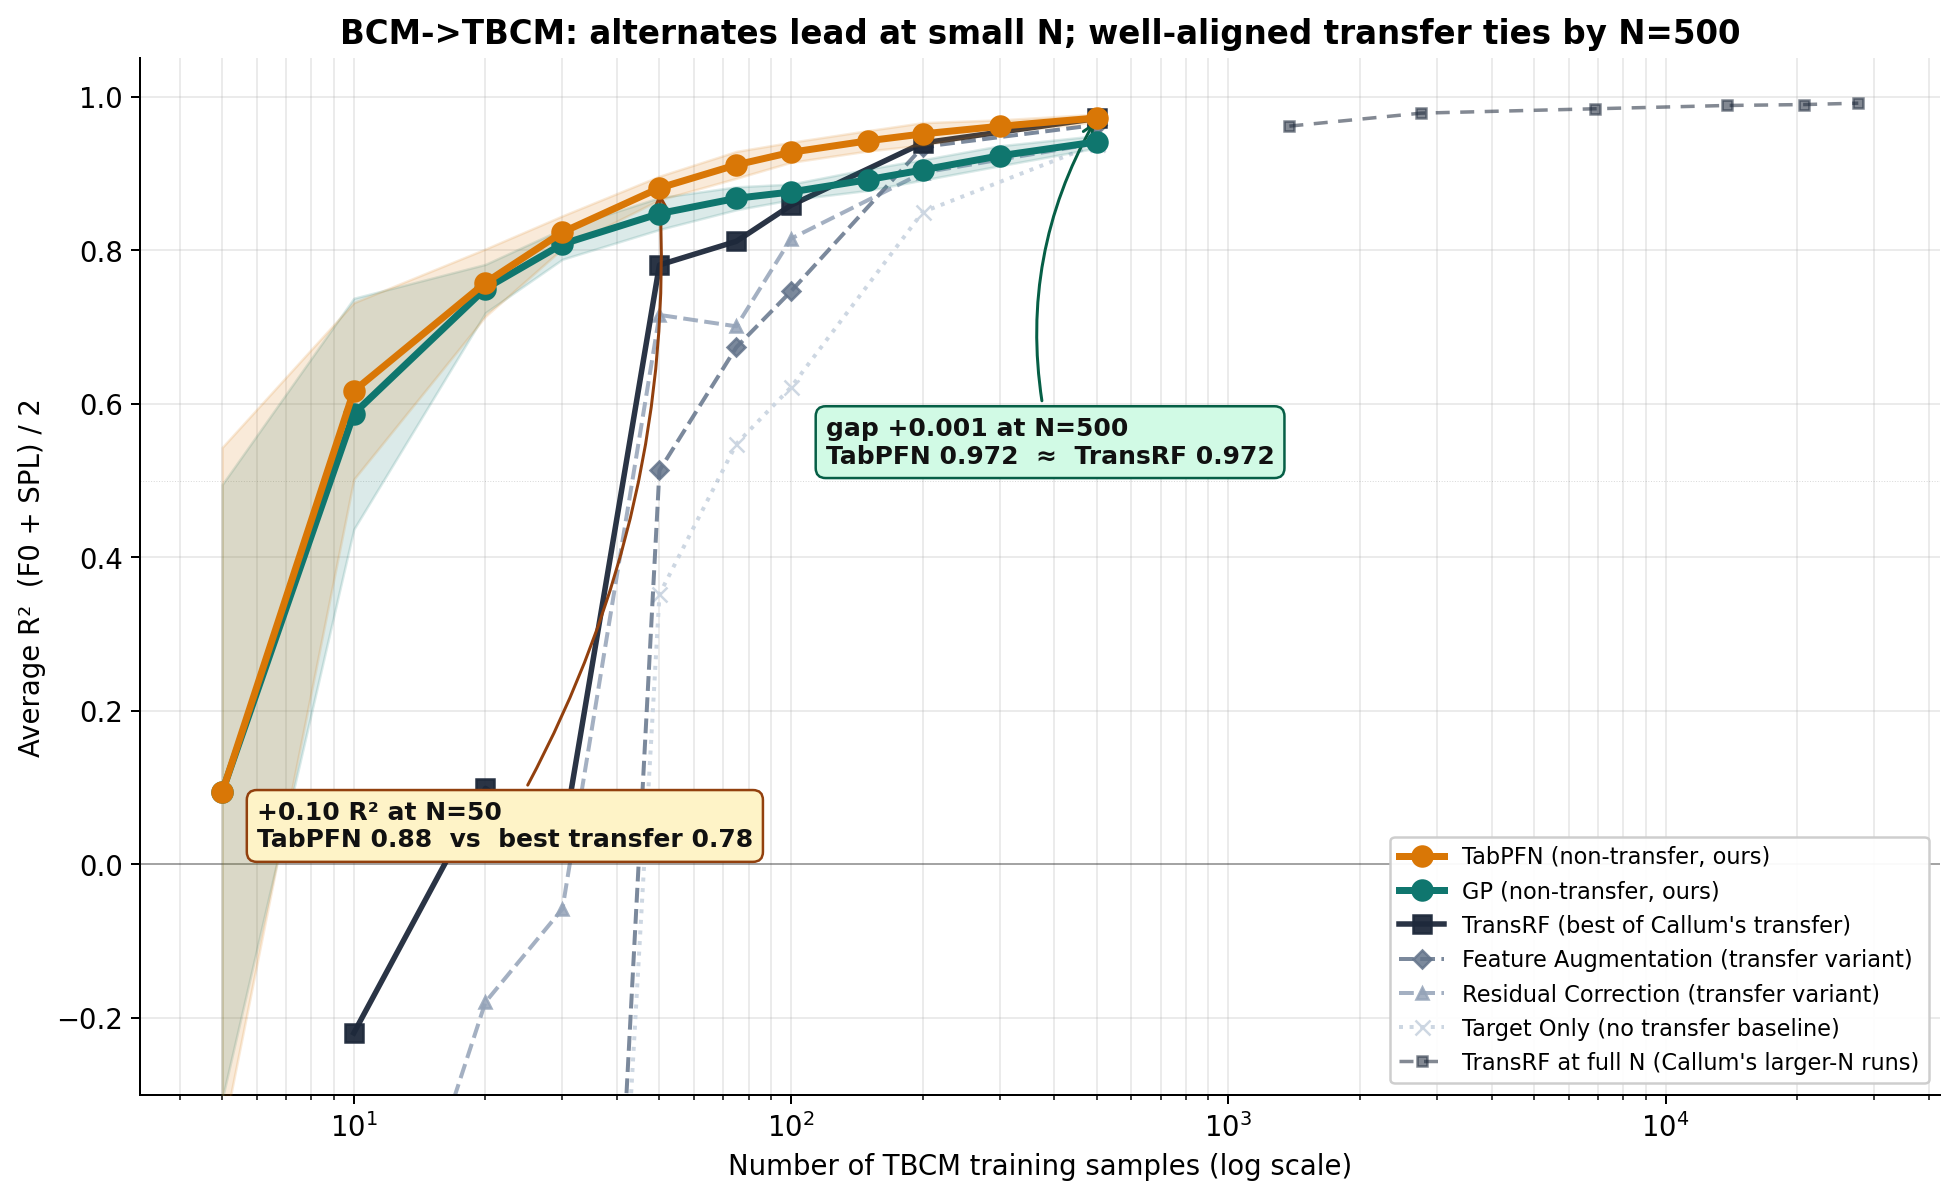
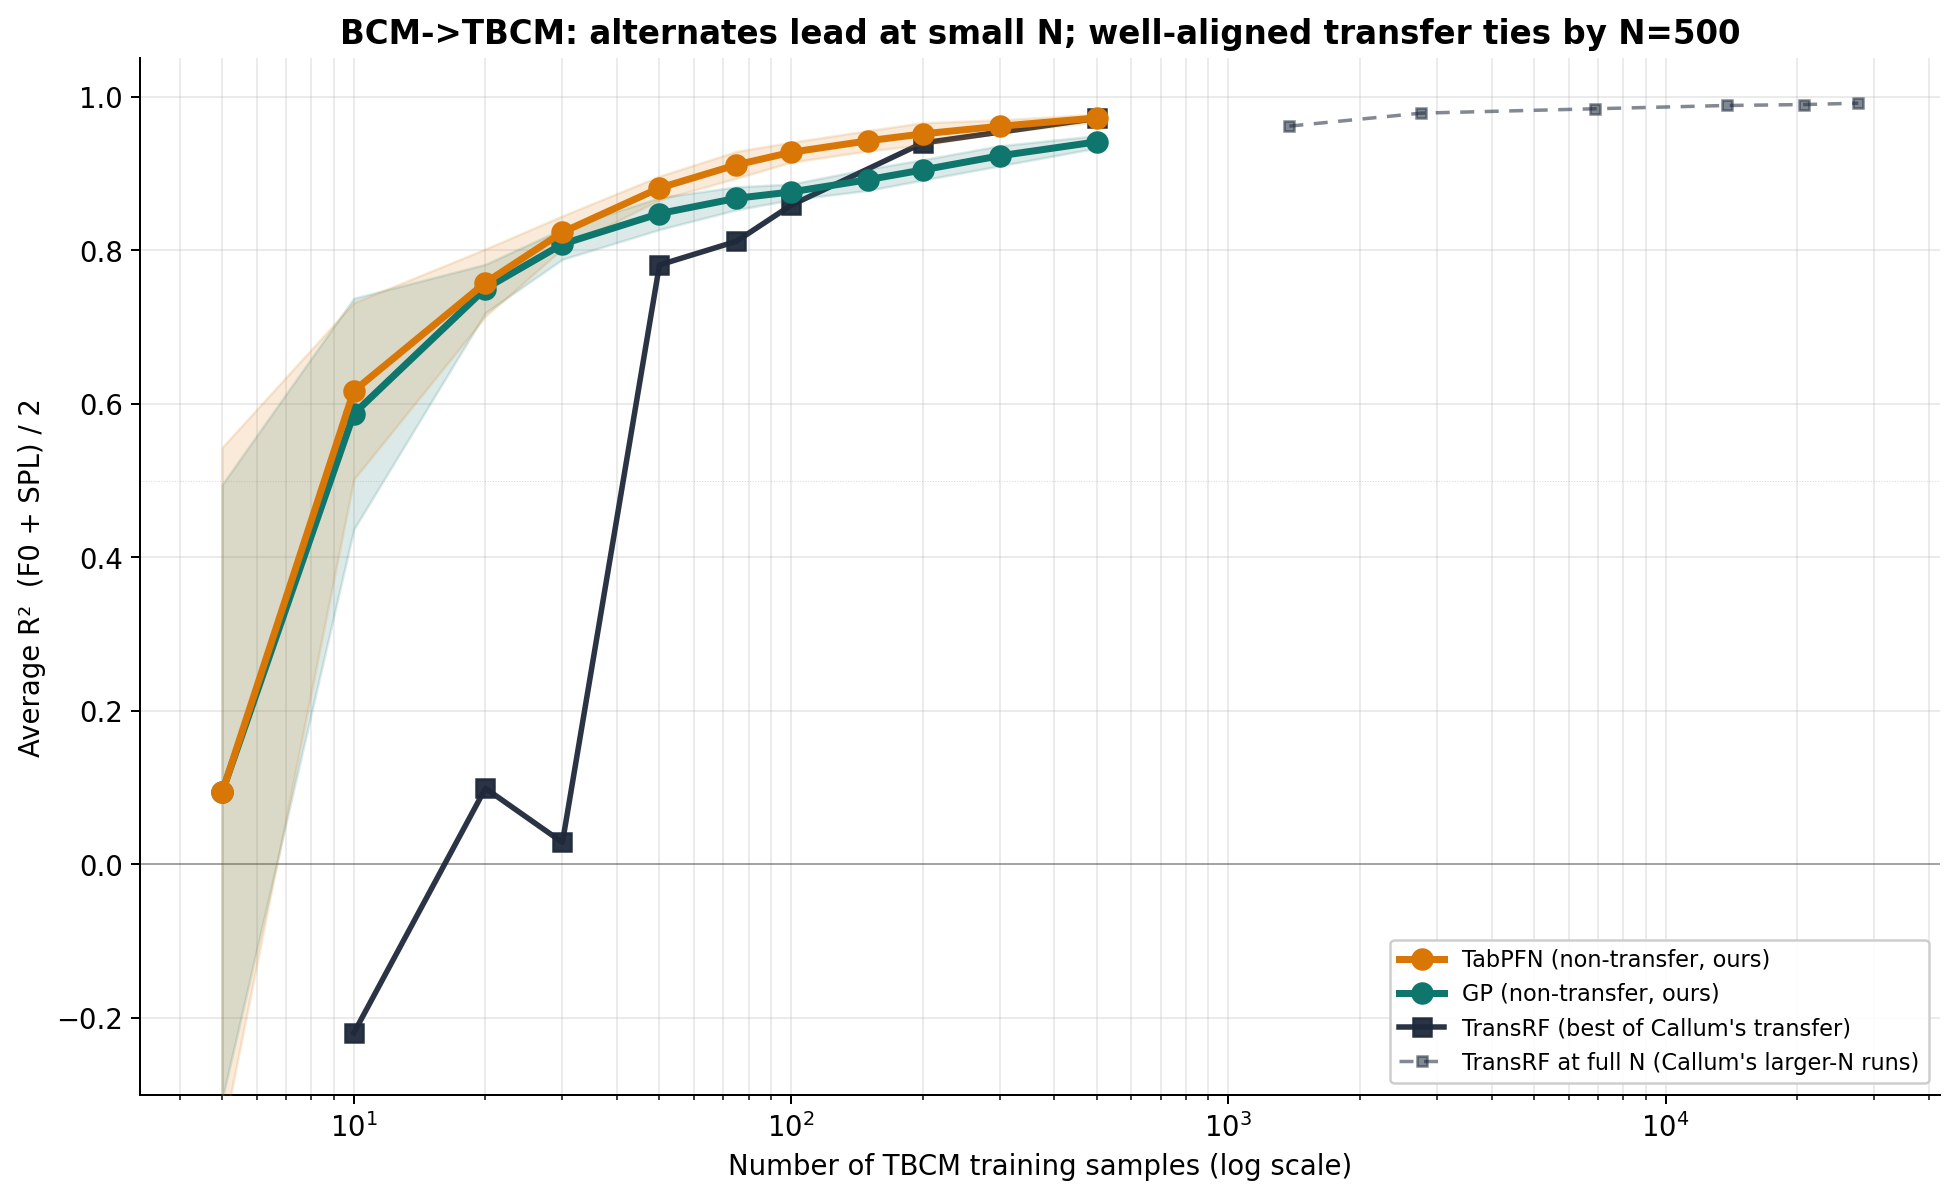
figs(showcase): simplify headline charts — best transfer only, no annotations
Both TBCM_Showcase.fig_headline and Female_Showcase.fig_headline:

  - Remove the in-plot annotation text boxes (R^2 gap at N=50, convergence
    at N=500, catch-up at N=75, divergence at N=500). The same numbers
    live in the head-to-head table and bootstrap figures; cluttering the
    line chart hurt readability.

  - Show only the best of the upstream transfer methods:
      TBCM:    TransRF only (drop Target Only / Residual / Feature Aug)
      Female:  RF transfer only (drop NN / PR)
    The dropped variants remain visible in sim_budget (bar) and bootstrap
    (boxplot) figures — those are the right place for the multi-method
    comparison.

  - TBCM keeps the dashed "TransRF at full N" reference line; it's the
    SAME method continued at larger N (1379..27584) and provides the
    convergence story without needing text.

Net effect: headline figs now have 3 lines (TBCM has 4 incl. dashed
reference), each labeled distinctly. Reads as a single clean comparison
instead of competing visual elements.

diff --git a/TBCM/TBCM_Showcase.py b/TBCM/TBCM_Showcase.py
@@ -159,18 +159,17 @@ def fig_headline():
 
     fig, ax = plt.subplots(figsize=(11, 6.8))
 
-    # Plot each transfer variant as its OWN labeled line.
-    for label in ['Target Only', 'Residual', 'Feature Aug', 'TransRF']:
-        if label not in small_mean or not small_mean[label]:
-            continue
-        ns = sorted(small_mean[label])
-        ys = [small_mean[label][n] for n in ns]
-        s = METHOD_STYLE[label]
+    # Best of Callum's transfer (TransRF only). Other variants are visible
+    # in the bootstrap and sim-budget figures.
+    if small_mean.get('TransRF'):
+        ns = sorted(small_mean['TransRF'])
+        ys = [small_mean['TransRF'][n] for n in ns]
+        s = METHOD_STYLE['TransRF']
         ax.plot(ns, ys, color=s['color'], marker=s['marker'], ls=s['ls'],
                 lw=s['lw'], ms=s['ms'], alpha=s['alpha'], label=s['label'],
-                zorder=3 if label == 'TransRF' else 2)
+                zorder=3)
 
-    # TransRF at full N (dashed continuation)
+    # TransRF at full N (dashed continuation, same transfer method, larger N)
     if full.get('TransRF'):
         full_tr = sorted(full['TransRF'])
         s = METHOD_STYLE['TransRF_fullN']
@@ -190,34 +189,6 @@ def fig_headline():
         ax.fill_between(ns, means - stds, means + stds, color=s['color'], alpha=0.15, zorder=3)
         ax.plot(ns, means, color=s['color'], marker=s['marker'], ls=s['ls'],
                 lw=s['lw'], ms=s['ms'], label=s['label'], zorder=5)
-
-    # Small-N gap callout at N=50
-    if 50 in alt['TabPFN']:
-        tab_50 = alt['TabPFN'][50].mean()
-        best_transfer_50 = max(small_mean[m].get(50, -np.inf) for m in small_mean)
-        gap = tab_50 - best_transfer_50
-        ax.annotate(
-            f'+{gap:.2f} R² at N=50\nTabPFN {tab_50:.2f}  vs  best transfer {best_transfer_50:.2f}',
-            xy=(50, tab_50), xytext=(6, 0.05),
-            fontsize=10, fontweight='bold', color='#111',
-            ha='left', va='center',
-            bbox=dict(boxstyle='round,pad=0.4', fc='#fef3c7', ec='#92400e', lw=1),
-            arrowprops=dict(arrowstyle='->', color='#92400e', lw=1.2,
-                            connectionstyle='arc3,rad=0.15'))
-
-    # Convergence callout at N=500
-    if 500 in alt['TabPFN']:
-        tab_500 = alt['TabPFN'][500].mean()
-        best_transfer_500 = max(small_mean[m].get(500, -np.inf) for m in small_mean)
-        gap = tab_500 - best_transfer_500
-        ax.annotate(
-            f'gap +{gap:.3f} at N=500\nTabPFN {tab_500:.3f}  ≈  TransRF {best_transfer_500:.3f}',
-            xy=(500, tab_500), xytext=(120, 0.55),
-            fontsize=10, fontweight='bold', color='#111',
-            ha='left', va='center',
-            bbox=dict(boxstyle='round,pad=0.4', fc='#d1fae5', ec='#065f46', lw=1),
-            arrowprops=dict(arrowstyle='->', color='#065f46', lw=1.2,
-                            connectionstyle='arc3,rad=-0.2'))
 
     ax.set_xscale('log')
     ax.set_xlabel('Number of TBCM training samples (log scale)')

diff --git a/VocalFoldRegression/BCM Model/Alternates/Female_Showcase.py b/VocalFoldRegression/BCM Model/Alternates/Female_Showcase.py
@@ -120,16 +120,15 @@ def fig_headline():
 
     fig, ax = plt.subplots(figsize=(11, 6.8))
 
-    # Each transfer regressor as its OWN labeled line
-    for reg in ['NN', 'PR', 'RF']:
-        if reg not in xfer:
-            continue
-        ns = sorted(xfer[reg])
-        ys = [xfer[reg][n] for n in ns]
-        s = METHOD_STYLE[reg]
+    # RF Male->Female transfer only (best of Brian's transfer regressors).
+    # NN/PR comparison is visible in the sim-budget figure.
+    if 'RF' in xfer:
+        ns = sorted(xfer['RF'])
+        ys = [xfer['RF'][n] for n in ns]
+        s = METHOD_STYLE['RF']
         ax.plot(ns, ys, color=s['color'], marker=s['marker'], ls=s['ls'],
                 lw=s['lw'], ms=s['ms'], alpha=s['alpha'], label=s['label'],
-                zorder=3 if reg == 'RF' else 2)
+                zorder=3)
 
     # GP + TabPFN with std bands
     for method in ('GP', 'TabPFN'):
@@ -142,38 +141,6 @@ def fig_headline():
         ax.fill_between(ns, means - stds, means + stds, color=s['color'], alpha=0.15, zorder=3)
         ax.plot(ns, means, color=s['color'], marker=s['marker'], ls=s['ls'],
                 lw=s['lw'], ms=s['ms'], label=s['label'], zorder=5)
-
-    rf = xfer.get('RF', {})
-
-    # Catch-up callout at N=75
-    if 75 in alt['TabPFN']:
-        tab_75 = alt['TabPFN'][75].mean()
-        if 50 in rf and 100 in rf:
-            rf_75 = 0.5 * (rf[50] + rf[100])
-        else:
-            rf_75 = rf.get(100, np.nan)
-        ax.annotate(
-            f'catch-up at N≈75\nTabPFN {tab_75:.2f}  ≈  RF transfer {rf_75:.2f}',
-            xy=(75, tab_75), xytext=(6, 0.92),
-            fontsize=10, fontweight='bold', color='#111',
-            ha='left', va='center',
-            bbox=dict(boxstyle='round,pad=0.4', fc='#fef3c7', ec='#92400e', lw=1),
-            arrowprops=dict(arrowstyle='->', color='#92400e', lw=1.2,
-                            connectionstyle='arc3,rad=0.15'))
-
-    # Divergence callout at N=500
-    if 500 in alt['TabPFN'] and 500 in rf:
-        tab_500 = alt['TabPFN'][500].mean()
-        rf_500 = rf[500]
-        gap = tab_500 - rf_500
-        ax.annotate(
-            f'+{gap:.2f} R² at N=500\nTabPFN {tab_500:.2f}  vs  RF transfer {rf_500:.2f}',
-            xy=(500, tab_500), xytext=(110, 0.42),
-            fontsize=10, fontweight='bold', color='#111',
-            ha='left', va='center',
-            bbox=dict(boxstyle='round,pad=0.4', fc='#d1fae5', ec='#065f46', lw=1),
-            arrowprops=dict(arrowstyle='->', color='#065f46', lw=1.2,
-                            connectionstyle='arc3,rad=-0.2'))
 
     ax.set_xscale('log')
     ax.set_xlabel('Number of Female BCM training samples (log scale)')
